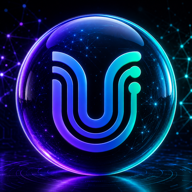
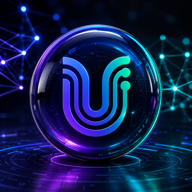
feat: atualiza icones e splash screen da UniFlow

diff --git a/index.html b/index.html
@@ -3,8 +3,49 @@
   <head>
     <meta charset="UTF-8" />
     <link rel="icon" type="image/png" href="/uniflow-icon.png" />
-    <meta name="viewport" content="width=device-width, initial-scale=1.0, viewport-fit=cover" />
+    <meta
+      name="viewport"
+      content="width=device-width, initial-scale=1.0, viewport-fit=cover"
+    />
     <title>uniflow-ai-app</title>
+
+    <style>
+      #uniflow-splash {
+        position: fixed;
+        inset: 0;
+        z-index: 999999;
+        display: flex;
+        align-items: center;
+        justify-content: center;
+        background: #020817;
+        opacity: 1;
+        visibility: visible;
+        transition:
+          opacity 320ms ease,
+          visibility 320ms ease;
+      }
+
+      #uniflow-splash.is-hidden {
+        opacity: 0;
+        visibility: hidden;
+        pointer-events: none;
+      }
+
+      #uniflow-splash img {
+        display: block;
+        width: 100%;
+        height: 100%;
+        object-fit: cover;
+        object-position: center;
+      }
+
+      @media (prefers-reduced-motion: reduce) {
+        #uniflow-splash {
+          transition: none;
+        }
+      }
+    </style>
+
     <script>
       // FOUC guard: aplica data-theme antes do React montar, espelhando
       // src/features/theme (chave 'uniflow.theme.preference', padrão 'light').
@@ -13,18 +54,26 @@
           var KEY = 'uniflow.theme.preference';
           var VALID = { light: 1, dark: 1, uniflow: 1, system: 1 };
           var pref = 'light';
+
           try {
             var stored = window.localStorage.getItem(KEY);
             if (stored && VALID[stored]) pref = stored;
           } catch (e) {}
+
           var effective = pref;
+
           if (pref === 'system') {
             var dark = false;
+
             try {
-              dark = window.matchMedia('(prefers-color-scheme: dark)').matches;
+              dark = window.matchMedia(
+                '(prefers-color-scheme: dark)',
+              ).matches;
             } catch (e) {}
+
             effective = dark ? 'dark' : 'light';
           }
+
           var root = document.documentElement;
           root.setAttribute('data-theme', effective);
           root.setAttribute('data-theme-preference', pref);
@@ -32,8 +81,30 @@
       })();
     </script>
   </head>
+
   <body>
+    <div id="uniflow-splash" aria-hidden="true">
+      <img src="/uniflow-splash.png" alt="" />
+    </div>
+
     <div id="root"></div>
+
     <script type="module" src="/src/main.jsx"></script>
+
+    <script>
+      window.addEventListener('load', function () {
+        var splash = document.getElementById('uniflow-splash');
+
+        if (!splash) return;
+
+        window.setTimeout(function () {
+          splash.classList.add('is-hidden');
+
+          window.setTimeout(function () {
+            splash.remove();
+          }, 350);
+        }, 450);
+      });
+    </script>
   </body>
 </html>
